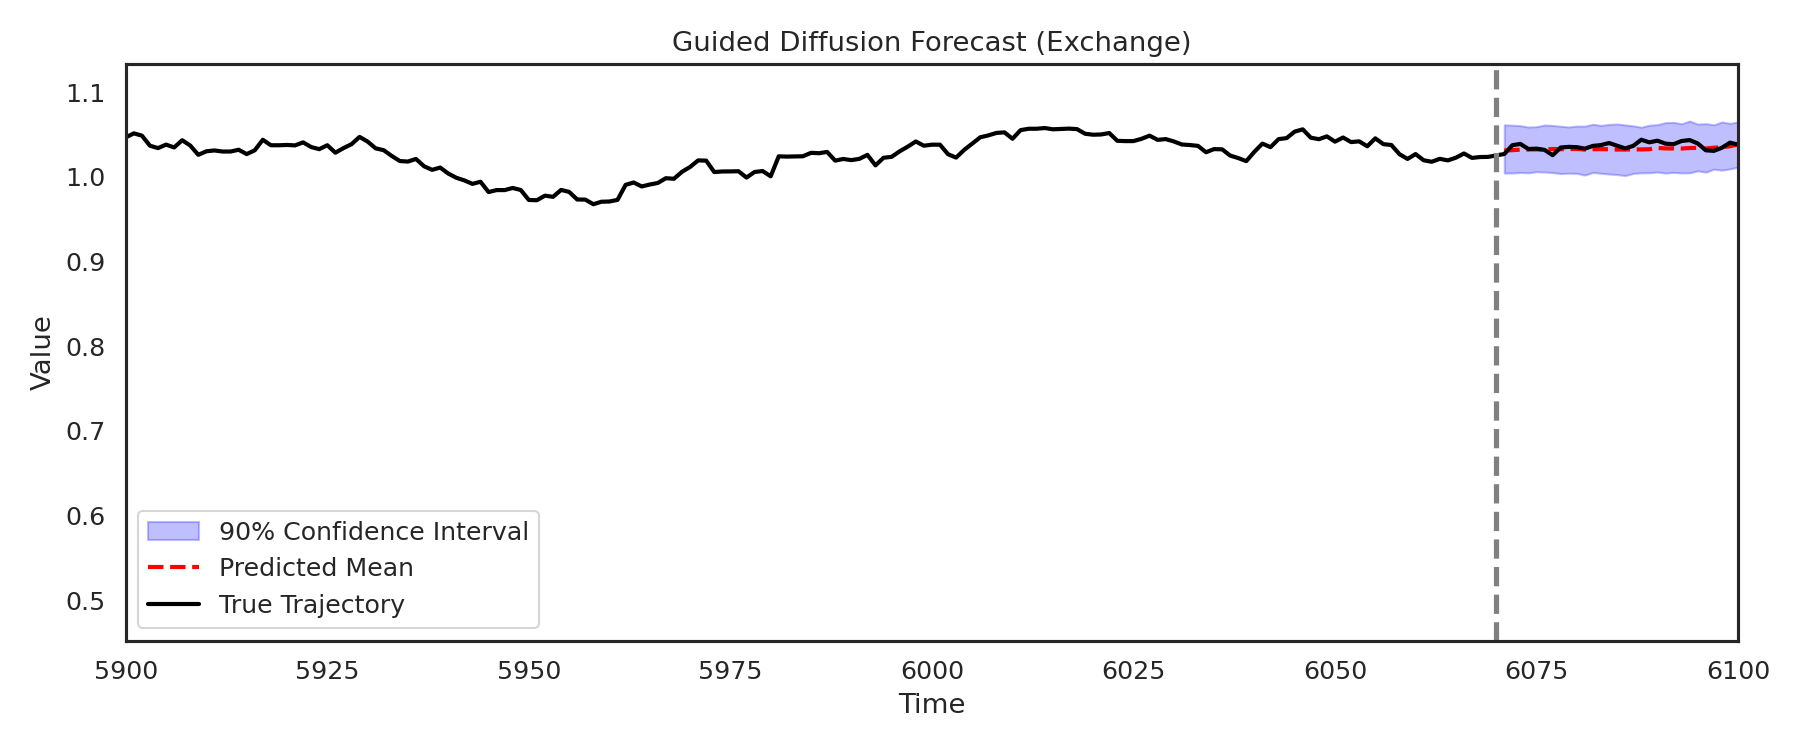
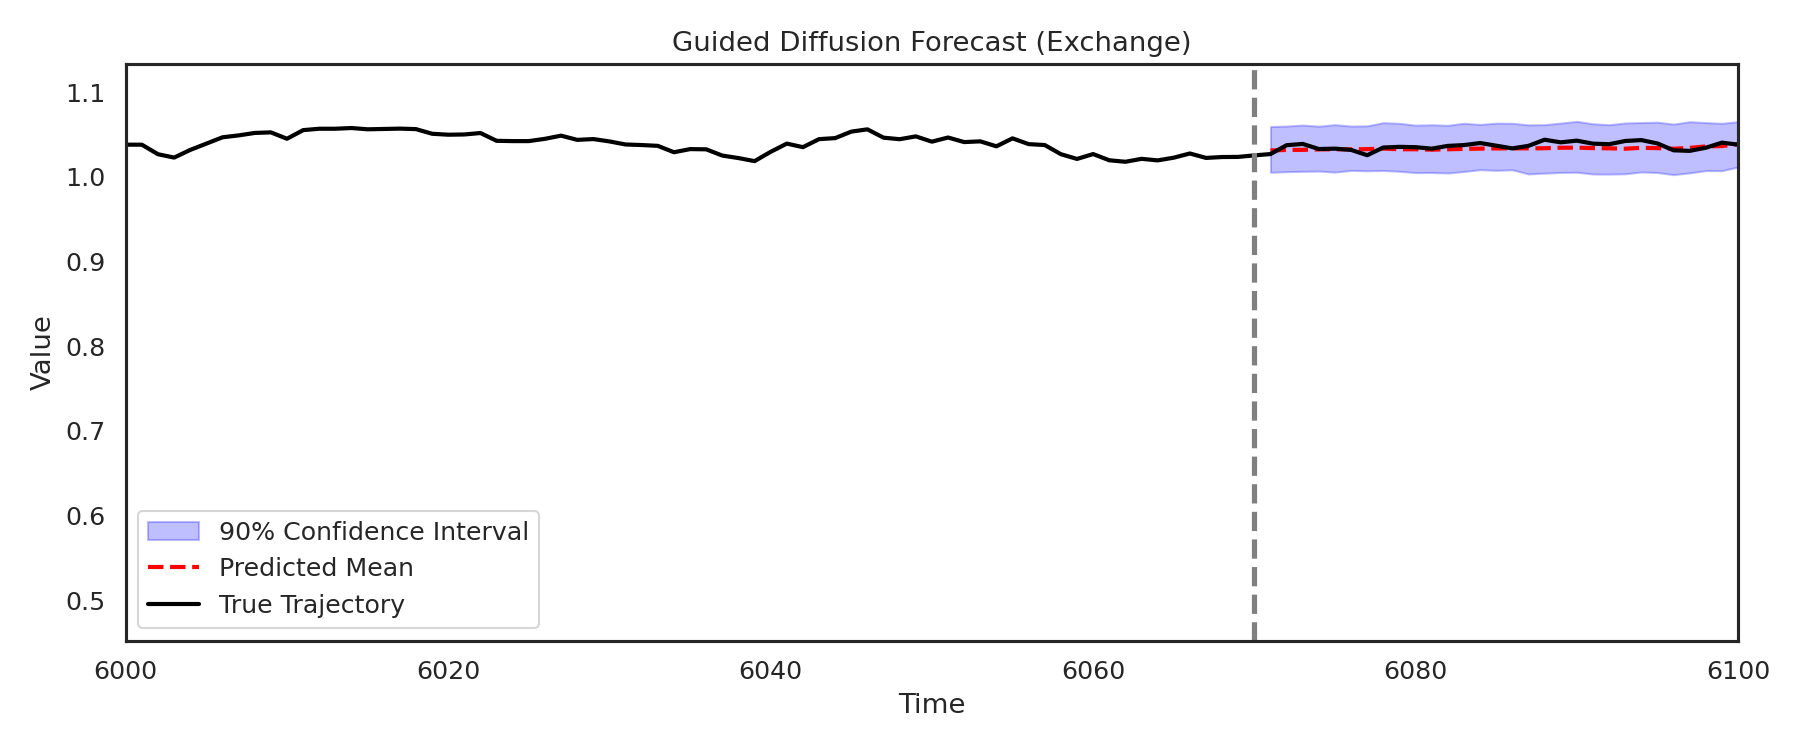
exchange added

diff --git a/forecast_exchange.py b/forecast_exchange.py
@@ -123,7 +123,7 @@ plt.xlabel("Time")
 plt.ylabel("Value")
 plt.legend()
 #plt.ylim(-200, 250)
-plt.xlim(5900, 6100)
+plt.xlim(6000, 6100)
 plt.tight_layout()
 plt.savefig("exchange_forecast_ci90.png", dpi=150)
 plt.close()
